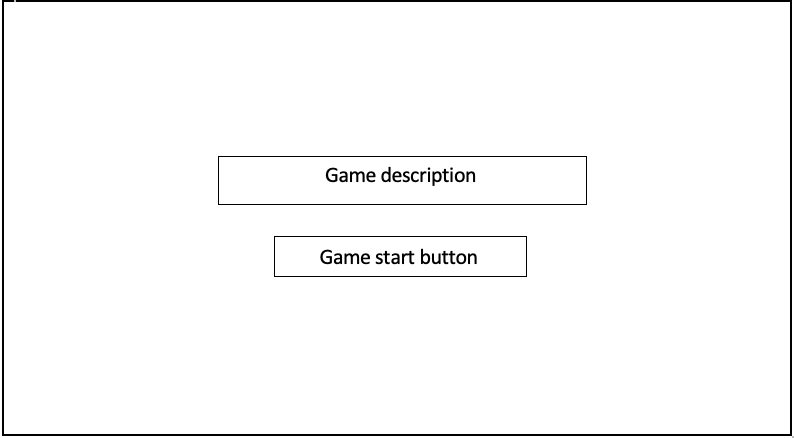
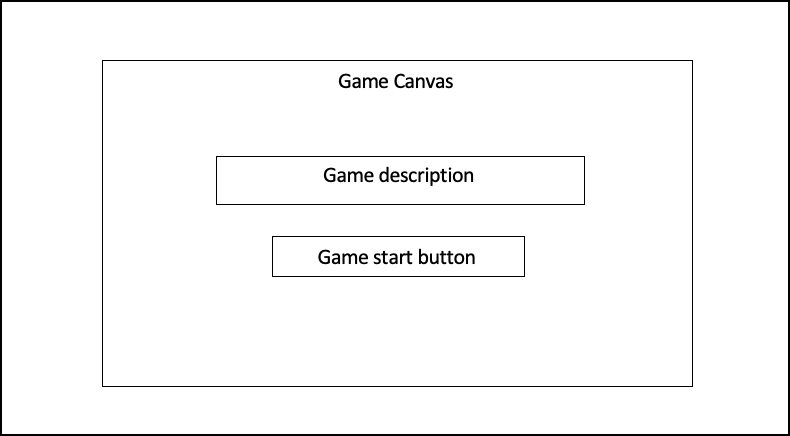
update readme

diff --git a/README.md b/README.md
@@ -17,9 +17,9 @@ Players will be able to:
 
 
 Wireframes
-•	Simple instructions will include move:wad to make sure player know how to play
-•	Controls will includes Start, stop, Reset and back to main menu.
-•	Nav links include links to this project's Github repo, my LinkedIn.
+•	A start screen will appear for some game description and a start button at first.
+•	After the player start the game, the screen will show wad control. 
+•	Then, player can press any keys after to start playing.
 
 Technologies, Libraries, APIs
 This project will be implemented with the following technologies:
@@ -34,7 +34,7 @@ Implementation Timeline
 NB:
 •	Friday Afternoon & Weekend: Setup project, including getting webpack up and running. Get canvas to show up on the screen, and spend time getting comfortable with the Canvas API. Create Tilemap, Player, Ducks and Platform classes. Try to render the grid, make sure the player can move properly with wad key. 
 
-•	Monday: Start creating different objects such as enemies and floor to support the player If possible, try to start working on collision between floor, player, bullet and enemies.
+•	Monday: Start creating different objects such as enemies and floor to support the player If possible, try to start working on collision between floor, player and duck.
 
 •	Tuesday: Finish all collisions and work on creating and designing different levels 
 
